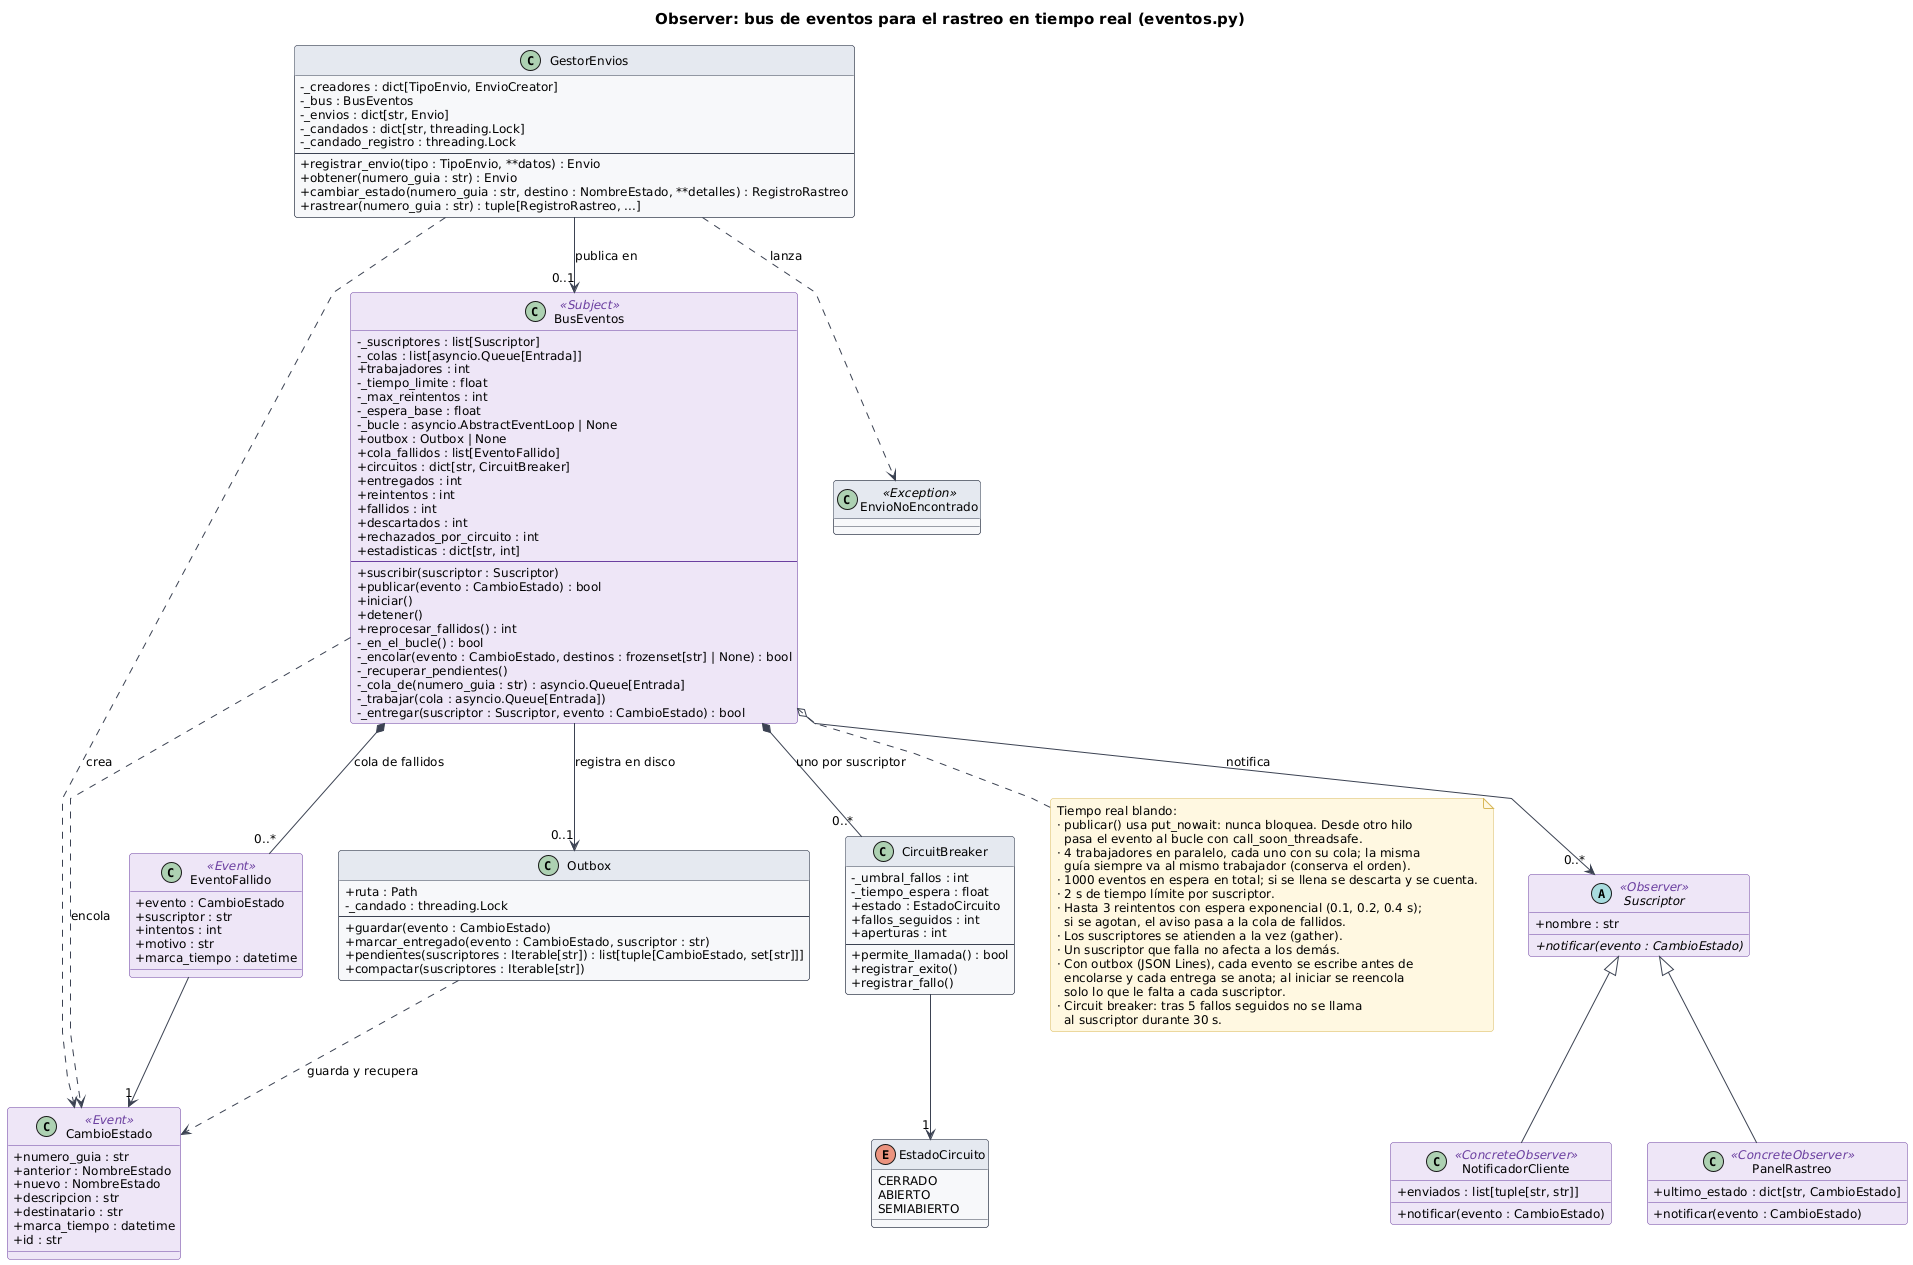
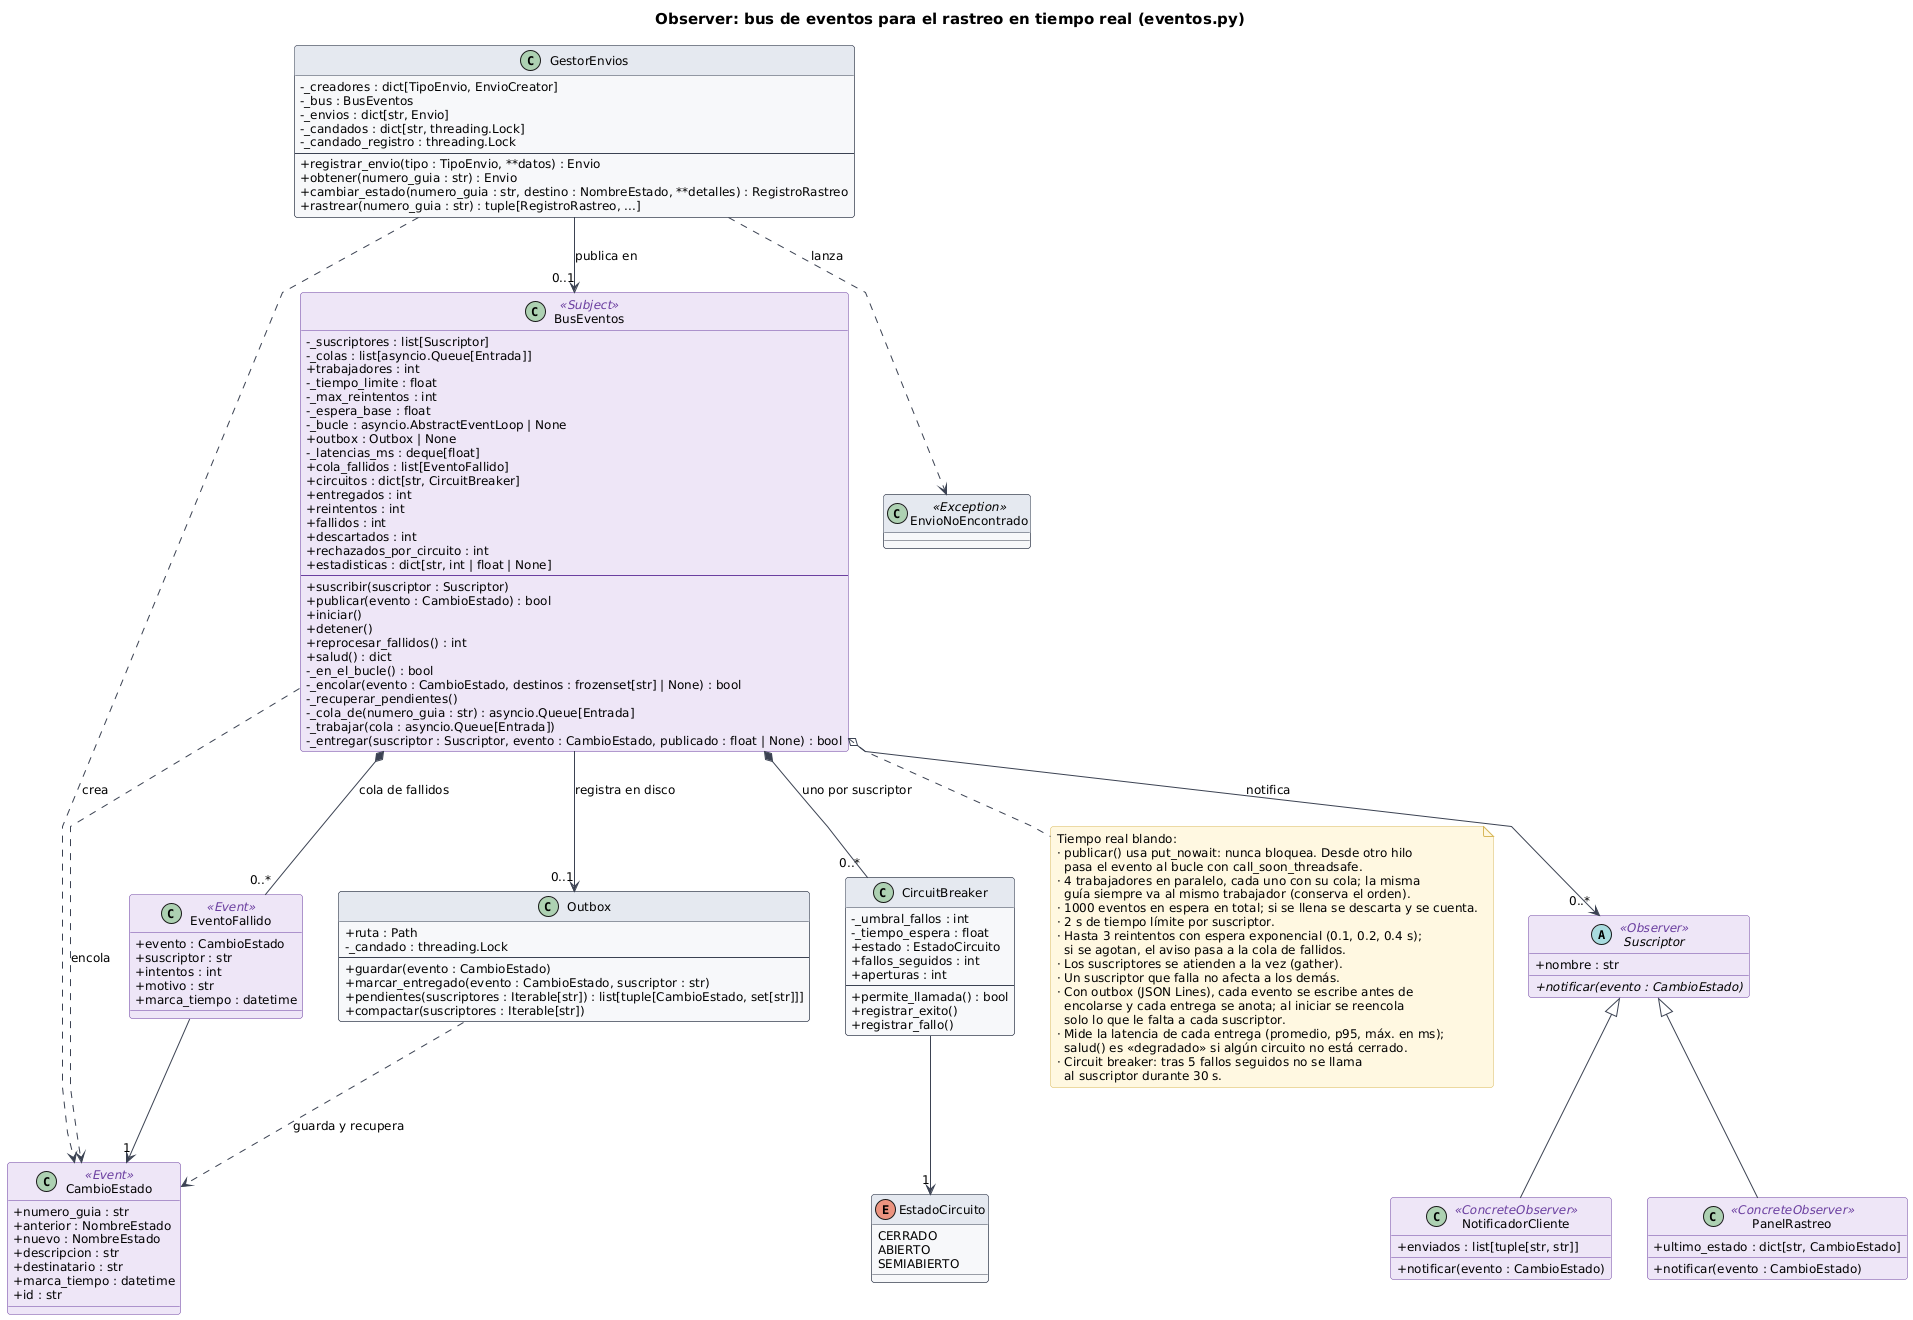
Mide la latencia de entrega y reporta la salud del bus
estadisticas incluye latencia promedio, p95 y máxima en milisegundos,
medida desde que se publica el evento hasta que el suscriptor responde
(reintentos incluidos). salud() reporta por suscriptor el estado del
circuito, sus fallos y su parte de la cola de fallidos, y devuelve
«degradado» si algún circuito no está cerrado. La demo los imprime.

Refs #7

Claude-Session: https://claude.ai/code/session_01B2i77P2T8B2uPDor18rEkp

diff --git a/zyntra/eventos.py b/zyntra/eventos.py
@@ -14,13 +14,15 @@ from __future__ import annotations
 import asyncio
 import logging
 import math
+import time
 import uuid
 import zlib
 from abc import ABC, abstractmethod
+from collections import deque
 from dataclasses import dataclass, field
 from datetime import datetime
 
-from zyntra.circuito import TIEMPO_ESPERA_S, UMBRAL_FALLOS, CircuitBreaker
+from zyntra.circuito import TIEMPO_ESPERA_S, UMBRAL_FALLOS, CircuitBreaker, EstadoCircuito
 from zyntra.estados import NombreEstado
 from zyntra.outbox import Outbox
 
@@ -31,6 +33,7 @@ TRABAJADORES = 4           # tareas que entregan eventos en paralelo
 TIEMPO_LIMITE_S = 2.0      # segundos que se espera a cada suscriptor
 MAX_REINTENTOS = 3         # intentos extra antes de mandar el aviso a la cola de fallidos
 ESPERA_BASE_S = 0.1        # espera antes del primer reintento; se duplica en cada uno
+MUESTRAS_LATENCIA = 10_000  # últimas entregas que se usan para las métricas de latencia
 
 
 @dataclass(frozen=True)
@@ -55,8 +58,9 @@ class EventoFallido:
     marca_tiempo: datetime
 
 
-# Lo que va en cada cola: el evento y a quién entregarlo (None = a todos).
-Entrada = tuple[CambioEstado, "frozenset[str] | None"]
+# Lo que va en cada cola: el evento, a quién entregarlo (None = a todos) y
+# cuándo se publicó (reloj monotónico, para medir la latencia).
+Entrada = tuple[CambioEstado, "frozenset[str] | None", float]
 
 
 class Suscriptor(ABC):
@@ -101,6 +105,7 @@ class BusEventos:
         self.fallidos = 0
         self.descartados = 0
         self.rechazados_por_circuito = 0
+        self._latencias_ms: deque[float] = deque(maxlen=MUESTRAS_LATENCIA)
 
     def suscribir(self, suscriptor: Suscriptor) -> None:
         self._suscriptores.append(suscriptor)
@@ -133,7 +138,8 @@ class BusEventos:
     def _encolar(self, evento: CambioEstado,
                  destinos: frozenset[str] | None = None) -> bool:
         try:
-            self._cola_de(evento.numero_guia).put_nowait((evento, destinos))
+            self._cola_de(evento.numero_guia).put_nowait(
+                (evento, destinos, time.perf_counter()))
             return True
         except asyncio.QueueFull:
             self.descartados += 1
@@ -174,11 +180,37 @@ class BusEventos:
         self._bucle = None
 
     @property
-    def estadisticas(self) -> dict[str, int]:
+    def estadisticas(self) -> dict[str, int | float | None]:
+        """Contadores y latencia de entrega en milisegundos.
+
+        La latencia va desde que el evento se publica (justo después del
+        cambio de estado) hasta que el suscriptor responde, reintentos
+        incluidos. Se calcula sobre las últimas MUESTRAS_LATENCIA entregas;
+        es None mientras no haya ninguna.
+        """
+        latencias = sorted(self._latencias_ms)
         return {"entregados": self.entregados, "reintentos": self.reintentos,
                 "fallidos": self.fallidos, "descartados": self.descartados,
                 "rechazados_por_circuito": self.rechazados_por_circuito,
-                "pendientes": sum(c.qsize() for c in self._colas), "en_cola_fallidos": len(self.cola_fallidos)}
+                "pendientes": sum(c.qsize() for c in self._colas),
+                "en_cola_fallidos": len(self.cola_fallidos),
+                "latencia_promedio_ms": _redondear(sum(latencias) / len(latencias)) if latencias else None,
+                "latencia_p95_ms": _redondear(_percentil(latencias, 95)) if latencias else None,
+                "latencia_max_ms": _redondear(latencias[-1]) if latencias else None}
+
+    def salud(self) -> dict:
+        """Estado de cada suscriptor. «degradado» si algún circuito está abierto."""
+        en_fallidos: dict[str, int] = {}
+        for fallido in self.cola_fallidos:
+            en_fallidos[fallido.suscriptor] = en_fallidos.get(fallido.suscriptor, 0) + 1
+        suscriptores = {
+            nombre: {"circuito": circuito.estado.value,
+                     "fallos_seguidos": circuito.fallos_seguidos,
+                     "aperturas": circuito.aperturas,
+                     "en_cola_fallidos": en_fallidos.get(nombre, 0)}
+            for nombre, circuito in self.circuitos.items()}
+        degradado = any(c.estado is not EstadoCircuito.CERRADO for c in self.circuitos.values())
+        return {"estado": "degradado" if degradado else "ok", "suscriptores": suscriptores}
 
     async def reprocesar_fallidos(self) -> int:
         """Vuelve a intentar los avisos de la cola de fallidos.
@@ -199,15 +231,17 @@ class BusEventos:
 
     async def _trabajar(self, cola: asyncio.Queue[Entrada]) -> None:
         while True:
-            evento, destinos = await cola.get()
+            evento, destinos, publicado = await cola.get()
             try:
                 # Todos los suscriptores a la vez: uno lento no retrasa a los demás.
-                await asyncio.gather(*(self._entregar(s, evento) for s in self._suscriptores
+                await asyncio.gather(*(self._entregar(s, evento, publicado)
+                                       for s in self._suscriptores
                                        if destinos is None or s.nombre in destinos))
             finally:
                 cola.task_done()
 
-    async def _entregar(self, suscriptor: Suscriptor, evento: CambioEstado) -> bool:
+    async def _entregar(self, suscriptor: Suscriptor, evento: CambioEstado,
+                        publicado: float | None = None) -> bool:
         """Entrega con reintentos y espera exponencial. Devuelve si se entregó.
 
         Si el circuito del suscriptor está abierto, no se le llama: el aviso
@@ -228,6 +262,8 @@ class BusEventos:
                 await asyncio.wait_for(suscriptor.notificar(evento), self._tiempo_limite)
                 circuito.registrar_exito()
                 self.entregados += 1
+                if publicado is not None:  # los reprocesados no cuentan: su espera fue manual
+                    self._latencias_ms.append((time.perf_counter() - publicado) * 1000)
                 if self.outbox is not None:
                     self.outbox.marcar_entregado(evento, suscriptor.nombre)
                 return True
@@ -243,3 +279,13 @@ class BusEventos:
             evento=evento, suscriptor=suscriptor.nombre, intentos=intentos,
             motivo=motivo, marca_tiempo=datetime.now()))
         return False
+
+
+def _percentil(ordenados: list[float], p: float) -> float:
+    """Percentil por rango más cercano sobre una lista ya ordenada."""
+    rango = math.ceil(p / 100 * len(ordenados))
+    return ordenados[max(rango, 1) - 1]
+
+
+def _redondear(ms: float) -> float:
+    return round(ms, 2)

diff --git a/tests/test_respuesta.py b/tests/test_respuesta.py
@@ -360,6 +360,70 @@ class TestOutbox(unittest.IsolatedAsyncioTestCase):
             self.assertEqual(archivo.read(), "")
 
 
+class TestMetricas(unittest.IsolatedAsyncioTestCase):
+    """Issue #7: latencia de entrega y estado de salud."""
+
+    async def test_sin_entregas_la_latencia_es_none(self):
+        stats = BusEventos().estadisticas
+        for clave in ("latencia_promedio_ms", "latencia_p95_ms", "latencia_max_ms"):
+            self.assertIsNone(stats[clave])
+
+    async def test_mide_la_latencia_en_milisegundos(self):
+        bus = BusEventos()
+        bus.suscribir(Demora(0.03))
+        await bus.iniciar()
+        gestor_con(bus).cambiar_estado("ZYN-00000001", E.EN_TRANSITO)
+        await bus.detener()
+        stats = bus.estadisticas
+        self.assertGreaterEqual(stats["latencia_max_ms"], 30)
+        self.assertLess(stats["latencia_max_ms"], 500)
+        self.assertEqual(stats["latencia_promedio_ms"], stats["latencia_max_ms"])
+
+    async def test_la_latencia_incluye_los_reintentos(self):
+        bus = BusEventos(max_reintentos=2, espera_base=0.05)
+        bus.suscribir(FallaNVeces(1))
+        await bus.iniciar()
+        with self.assertLogs("zyntra.eventos", "WARNING"):
+            gestor_con(bus).cambiar_estado("ZYN-00000001", E.EN_TRANSITO)
+            await bus.detener()
+        self.assertGreaterEqual(bus.estadisticas["latencia_max_ms"], 50)
+
+    def test_percentil_95_por_rango_mas_cercano(self):
+        from zyntra.eventos import _percentil
+        valores = [float(i) for i in range(1, 101)]
+        self.assertEqual(_percentil(valores, 95), 95.0)
+        self.assertEqual(_percentil([7.0], 95), 7.0)
+        self.assertEqual(_percentil([1.0, 2.0, 3.0, 100.0], 95), 100.0)
+
+    async def test_salud_ok_con_todos_los_circuitos_cerrados(self):
+        bus = BusEventos()
+        bus.suscribir(PanelRastreo())
+        salud = bus.salud()
+        self.assertEqual(salud["estado"], "ok")
+        self.assertEqual(salud["suscriptores"]["panel de rastreo"],
+                         {"circuito": "cerrado", "fallos_seguidos": 0, "aperturas": 0,
+                          "en_cola_fallidos": 0})
+
+    async def test_salud_degradado_si_un_circuito_esta_abierto(self):
+        bus = BusEventos(max_reintentos=0, umbral_circuito=2, espera_circuito=60)
+        bus.suscribir(FallaNVeces(99))
+        bus.suscribir(PanelRastreo())
+        await bus.iniciar()
+        guias = [f"ZYN-0000000{i}" for i in range(1, 4)]
+        gestor = gestor_con(bus, guias)
+        with self.assertLogs("zyntra.eventos", "WARNING"):
+            for guia in guias:
+                gestor.cambiar_estado(guia, E.EN_TRANSITO)
+            await bus.detener()
+
+        salud = bus.salud()
+        self.assertEqual(salud["estado"], "degradado")
+        caido = salud["suscriptores"]["falla n veces"]
+        self.assertEqual(caido["circuito"], "abierto")
+        self.assertEqual(caido["en_cola_fallidos"], 3)
+        self.assertEqual(salud["suscriptores"]["panel de rastreo"]["circuito"], "cerrado")
+
+
 class Demora(Suscriptor):
     nombre = "servicio lento"
 

diff --git a/zyntra/demo.py b/zyntra/demo.py
@@ -96,7 +96,19 @@ async def main() -> None:
     for destinatario, mensaje in correo.enviados:
         print(f"  {destinatario}: {mensaje}")
     print(f"  Panel de rastreo: {panel.ultimo_estado[envio.numero_guia].nuevo.value}")
-    print(f"  Estadísticas del bus: {bus.estadisticas}")
+
+    titulo("6. Métricas del módulo de respuesta")
+    stats = bus.estadisticas
+    for clave in ("entregados", "reintentos", "fallidos", "descartados",
+                  "rechazados_por_circuito", "en_cola_fallidos"):
+        print(f"  {clave:<26} {stats[clave]}")
+    for clave in ("latencia_promedio_ms", "latencia_p95_ms", "latencia_max_ms"):
+        print(f"  {clave:<26} {stats[clave]} ms")
+    salud = bus.salud()
+    print(f"  Salud del bus: {salud['estado']}")
+    for nombre, datos in salud["suscriptores"].items():
+        print(f"    {nombre:<34} circuito {datos['circuito']}, "
+              f"{datos['en_cola_fallidos']} en cola de fallidos")
 
 
 if __name__ == "__main__":

diff --git a/CHANGELOG.md b/CHANGELOG.md
@@ -11,6 +11,7 @@ Formato basado en [Keep a Changelog](https://keepachangelog.com/es-ES/1.1.0/). V
 - Cuatro trabajadores entregan eventos en paralelo; los de una misma guía siempre van al mismo trabajador para conservar su orden (#4).
 - Cambios de estado simultáneos sobre un mismo envío desde varios hilos: un candado por guía evita estados corruptos y `publicar()` se puede llamar desde otro hilo (#5).
 - Outbox en disco (JSON Lines): los avisos pendientes sobreviven a un reinicio y al arrancar solo se reenvían a los suscriptores que no los recibieron (#6).
+- Métricas de latencia de entrega (promedio, p95 y máxima en ms) en `estadisticas` y método `salud()` que reporta «degradado» si algún circuito está abierto; la demostración las imprime (#7).
 
 ## [1.0.0] - 2026-11-04
 
